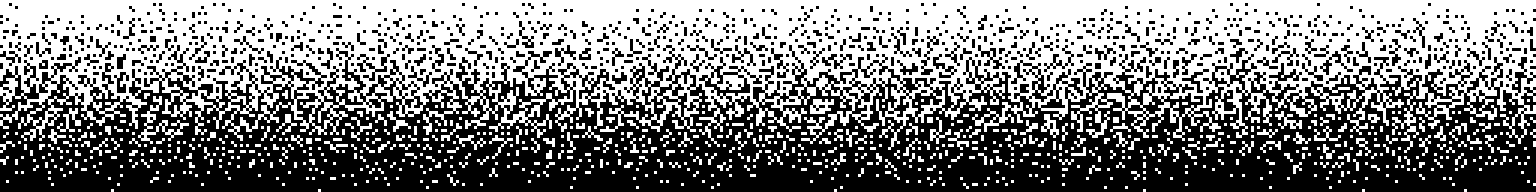
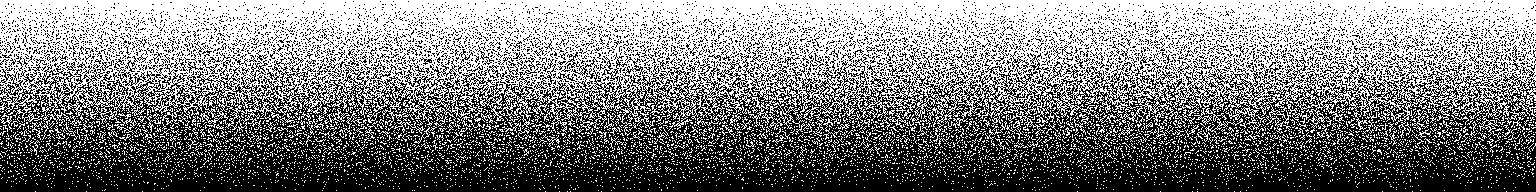
Let a production exist before it opens, and empty the hero of photographs
Červánky arrived on 2026-09-11 with a director, a composer, a cast, an
annotation, an age rating and a premiere date, and that was enough to break the
schema: blurb, score and idivadlo were all required. They were written when
both productions had been playing for a year, so "has an audience rating" was
indistinguishable from "is a production". A production that has not opened has
no rating, nothing quoted about it and no i-divadlo page, and Toníkova cesta
will want the same treatment. The three are optional now and quotes defaults to
empty; the press block is skipped whole rather than printing an empty score
above a link to nowhere.

The blurb is the interesting one, because it is not only a schema problem. The
one-line blurb is hers to write and she sent only the long annotation - cutting
that down to a blurb would be editing her words. So the deck card carries no
back face and no button offering one, rather than a button that turns onto
nothing. That state already existed for the titles she plays without a page;
the difference is that it now belongs to a production that has one, so the card
keys off the data instead of off the position in the list.

The title is the full "Ale ty červánky jsou stejně nejkrásnější", not the short
"Červánky" she confirmed on 2026-08-18. She sent the production's own material
under the long name and it is carried everywhere, the programme dates included,
which is also what links those three dates to the new page. It is by some way
[…]

diff --git a/src/content.config.ts b/src/content.config.ts
@@ -38,7 +38,12 @@ const productions = defineCollection({
     // titleRest rather than being special-cased per slug in three templates.
     titleLead: z.string(),
     titleRest: z.string().optional(),
-    blurb: z.string(),
+    // Optional since 2026-09-11, when Červánky arrived before its premiere.
+    // The one-line blurb is hers to write and she has sent only the long
+    // annotation; truncating that into a blurb would be editing her words. A
+    // production without one renders a card that does not turn over, which
+    // the deck already handles - there is nothing on the back to show.
+    blurb: z.string().optional(),
     annotation: z.string(),
     creditsBefore: z.array(creditRow),
     // Cast as alternation groups: [["a"], ["b", "c"]] renders as "A, B / C".
@@ -64,15 +69,21 @@ const productions = defineCollection({
       width: z.number().int(),
       height: z.number().int(),
     }).optional(),
-    score: z.string(),
+    // All three optional since 2026-09-11: a production that has not opened
+    // has no audience rating, nothing quoted about it and no i-divadlo page.
+    // That is a real state the schema did not model - it was written when both
+    // productions had been playing for a year - and Toníkova cesta will need
+    // the same. The press block is skipped entirely rather than printing an
+    // empty score above a link to nowhere.
+    score: z.string().optional(),
     // Quotations from real named people; text is verbatim and case-exact.
     quotes: z.array(z.object({
       text: z.string(),
       author: z.string(),
       rating: z.string(),
       date: z.string(),
-    })),
-    idivadlo: z.string().url(),
+    })).default([]),
+    idivadlo: z.string().url().optional(),
     photos: z.array(z.object({
       src: z.string(),
       alt: z.string(),

diff --git a/src/styles/global.css b/src/styles/global.css
@@ -181,14 +181,10 @@
   /* The seams are a dot matrix, and its cells are pixels, so this is a pixel
      value and not an em one. The tile is 192px tall and repeats only
      sideways, so an element of any other height would either crop the dither
-     or run past the end of it. 192 is also 64 cells of 3px exactly. */
+     or run past the end of it. The cell is 1px as of 2026-09-11, so 192 is
+     also 192 cells exactly - it divides by any cell size the seam might go
+     back to. */
   --seam: 192px;
-  /* The hero's own seam is shorter than the two below it, and has to be: it
-     dissolves the photograph into the band, and the photograph is only
-     min(62vw, 24rem) tall. A 192px matrix would have eaten four fifths of it
-     on a phone. Its own tile, so the cells stay square 3px like the others
-     rather than being squashed by a shorter box. */
-  --hero-seam: 96px;
 
   /* The curve, and now the only smooth thing in a seam. Its ramp is
      deliberately short: a long one scales every dot's alpha on its way and
@@ -743,8 +739,8 @@ img { max-width: 100%; height: auto; }
    same distribution with the low frequencies removed, so it is aperiodic and
    evenly spread at once.
 
-   The tile is 1536px wide, 512 cells, so a phone never sees it repeat inside
-   the viewport. */
+   The tile is 1536px wide and laid at that exact size, so one image pixel is
+   one CSS pixel and a phone never sees it repeat inside the viewport. */
 .footer::before {
   content: "";
   position: absolute;
